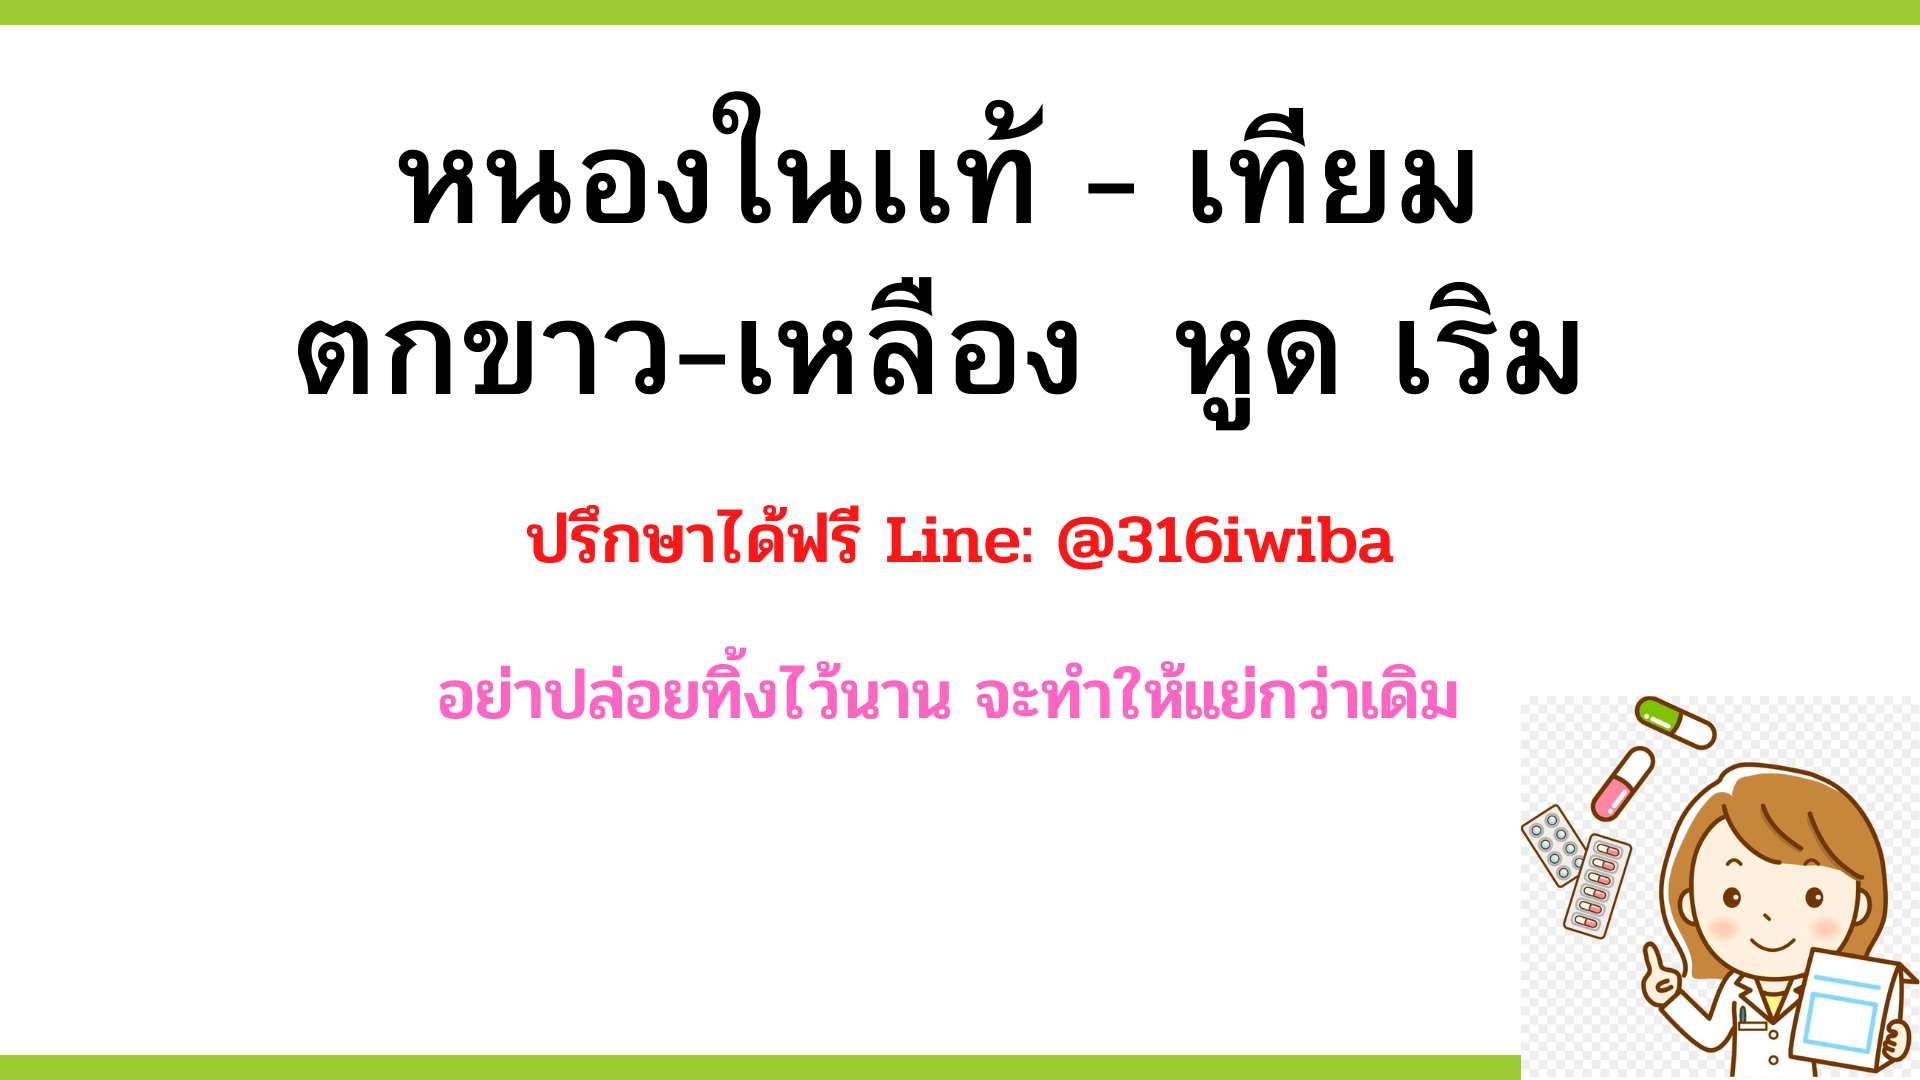
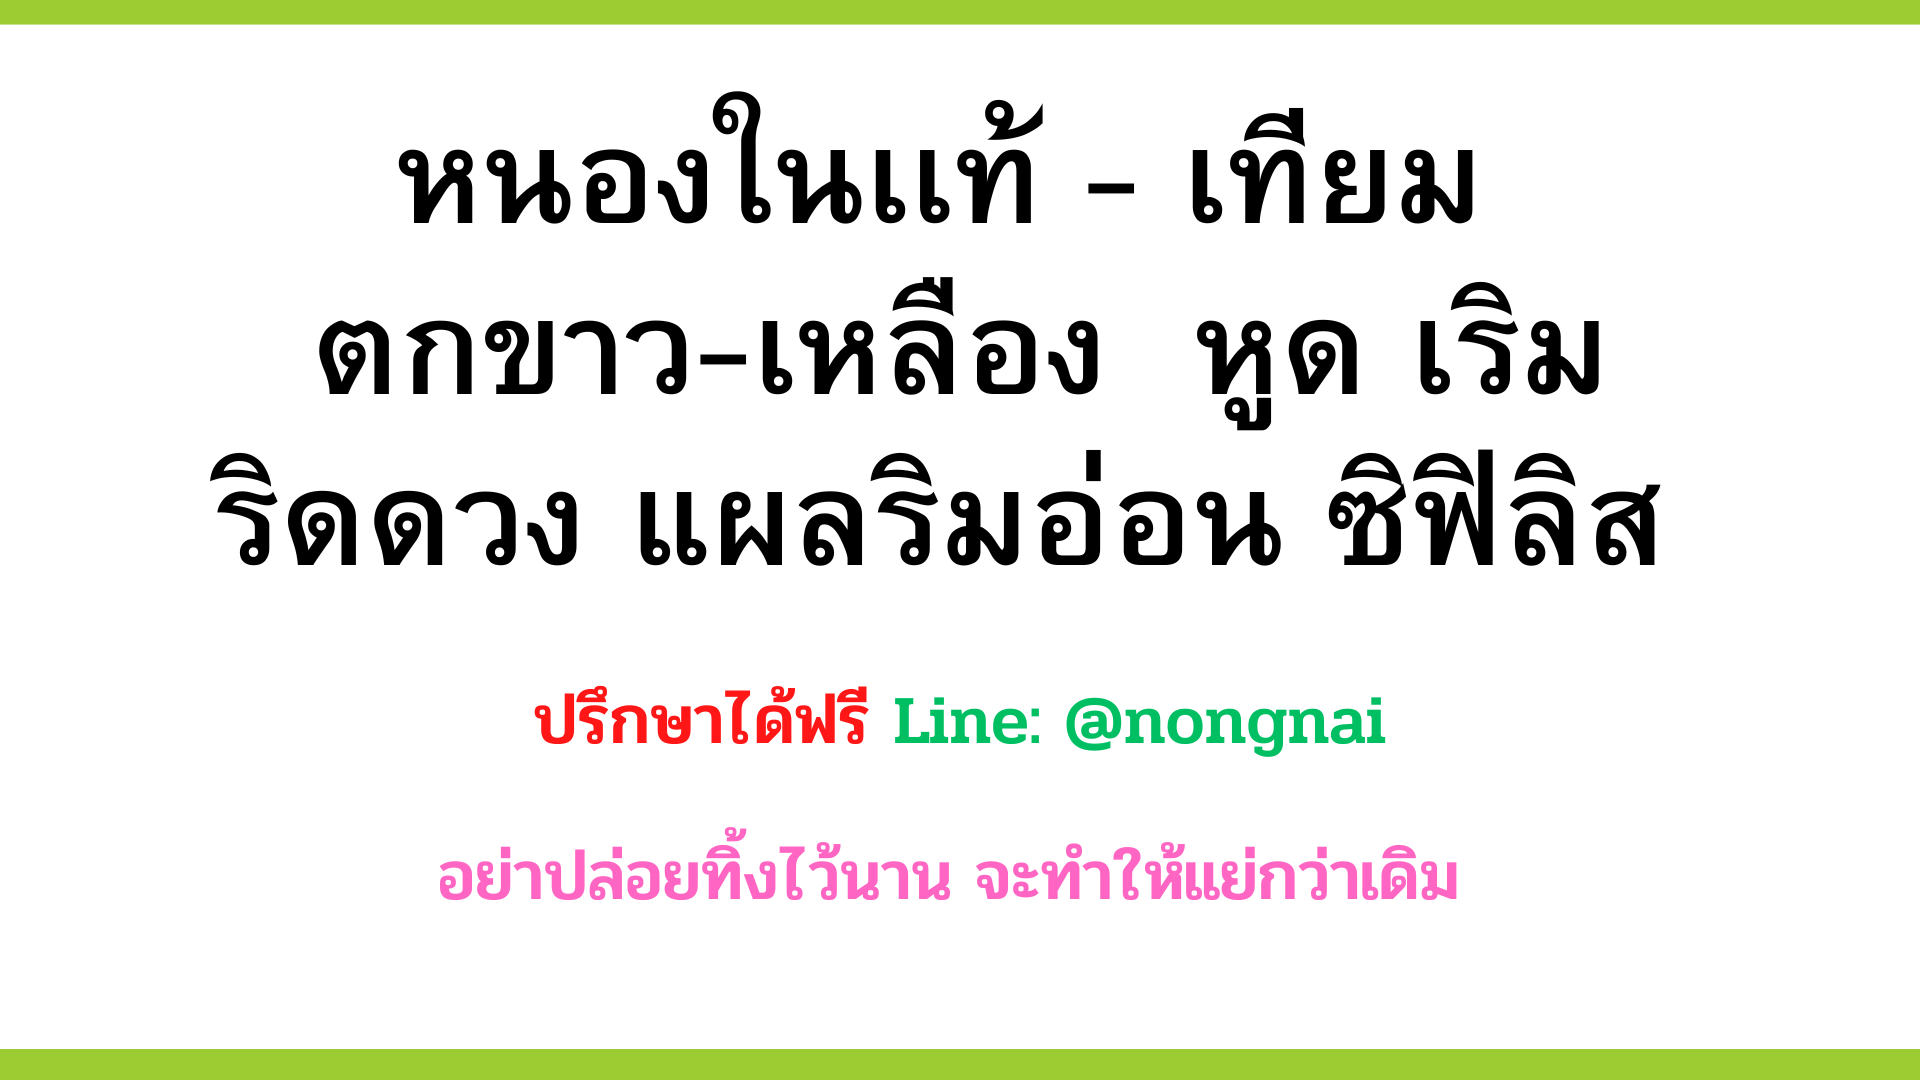
updated

diff --git a/src/Footer.js b/src/Footer.js
@@ -6,7 +6,7 @@ const Footer = () => (
         <div>
           <h4>
             <strong style={{ marginLeft: "15px", color: "red" }}>
-              LineID : @316iwiba ใส่เครื่องหมาย @ ด้วยนะคะ
+              LineID : @nongnai ใส่เครื่องหมาย @ ด้วยนะคะ
             </strong>
           </h4>
           <a
